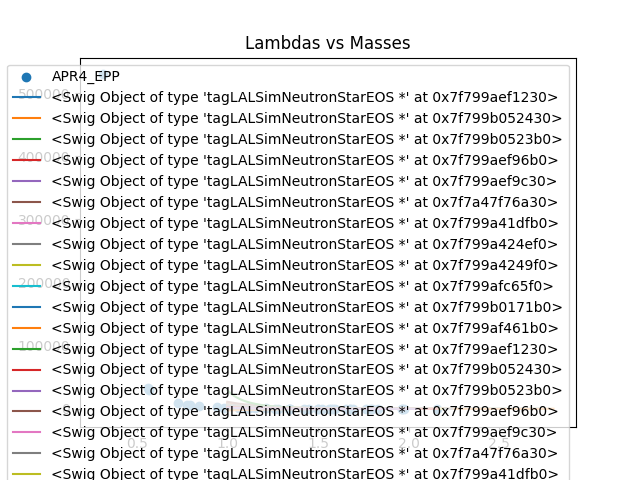
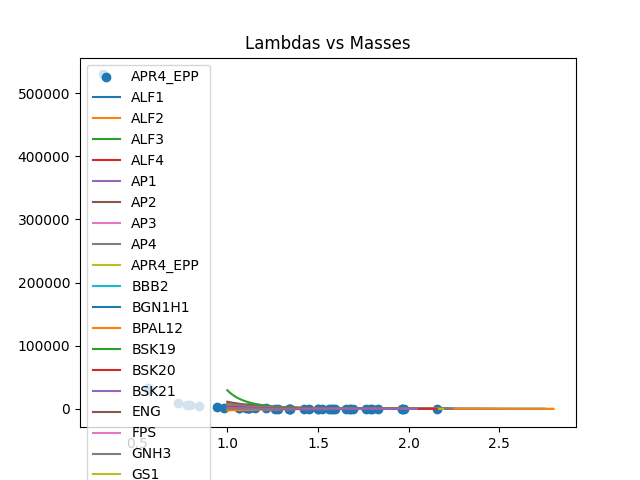
Testing mean plots.

Changed region(s): [[0.0, 0.125, 0.875, 1.0]]

diff --git a/ns_eos_dist.py b/ns_eos_dist.py
@@ -87,7 +87,7 @@ def plot_lambdas(datafile, name, N):
                 working_masses.append(m)
             except RuntimeError:
                 break
-        pl.plot(masses,working_Lambdas,label=eos)
+        pl.plot(masses,working_Lambdas,label=eos_name)
     pl.title("Lambdas vs Masses")
     pl.legend()
     pl.savefig("NICER_mock_data/lambdas_plots/{}.png".format(name))
